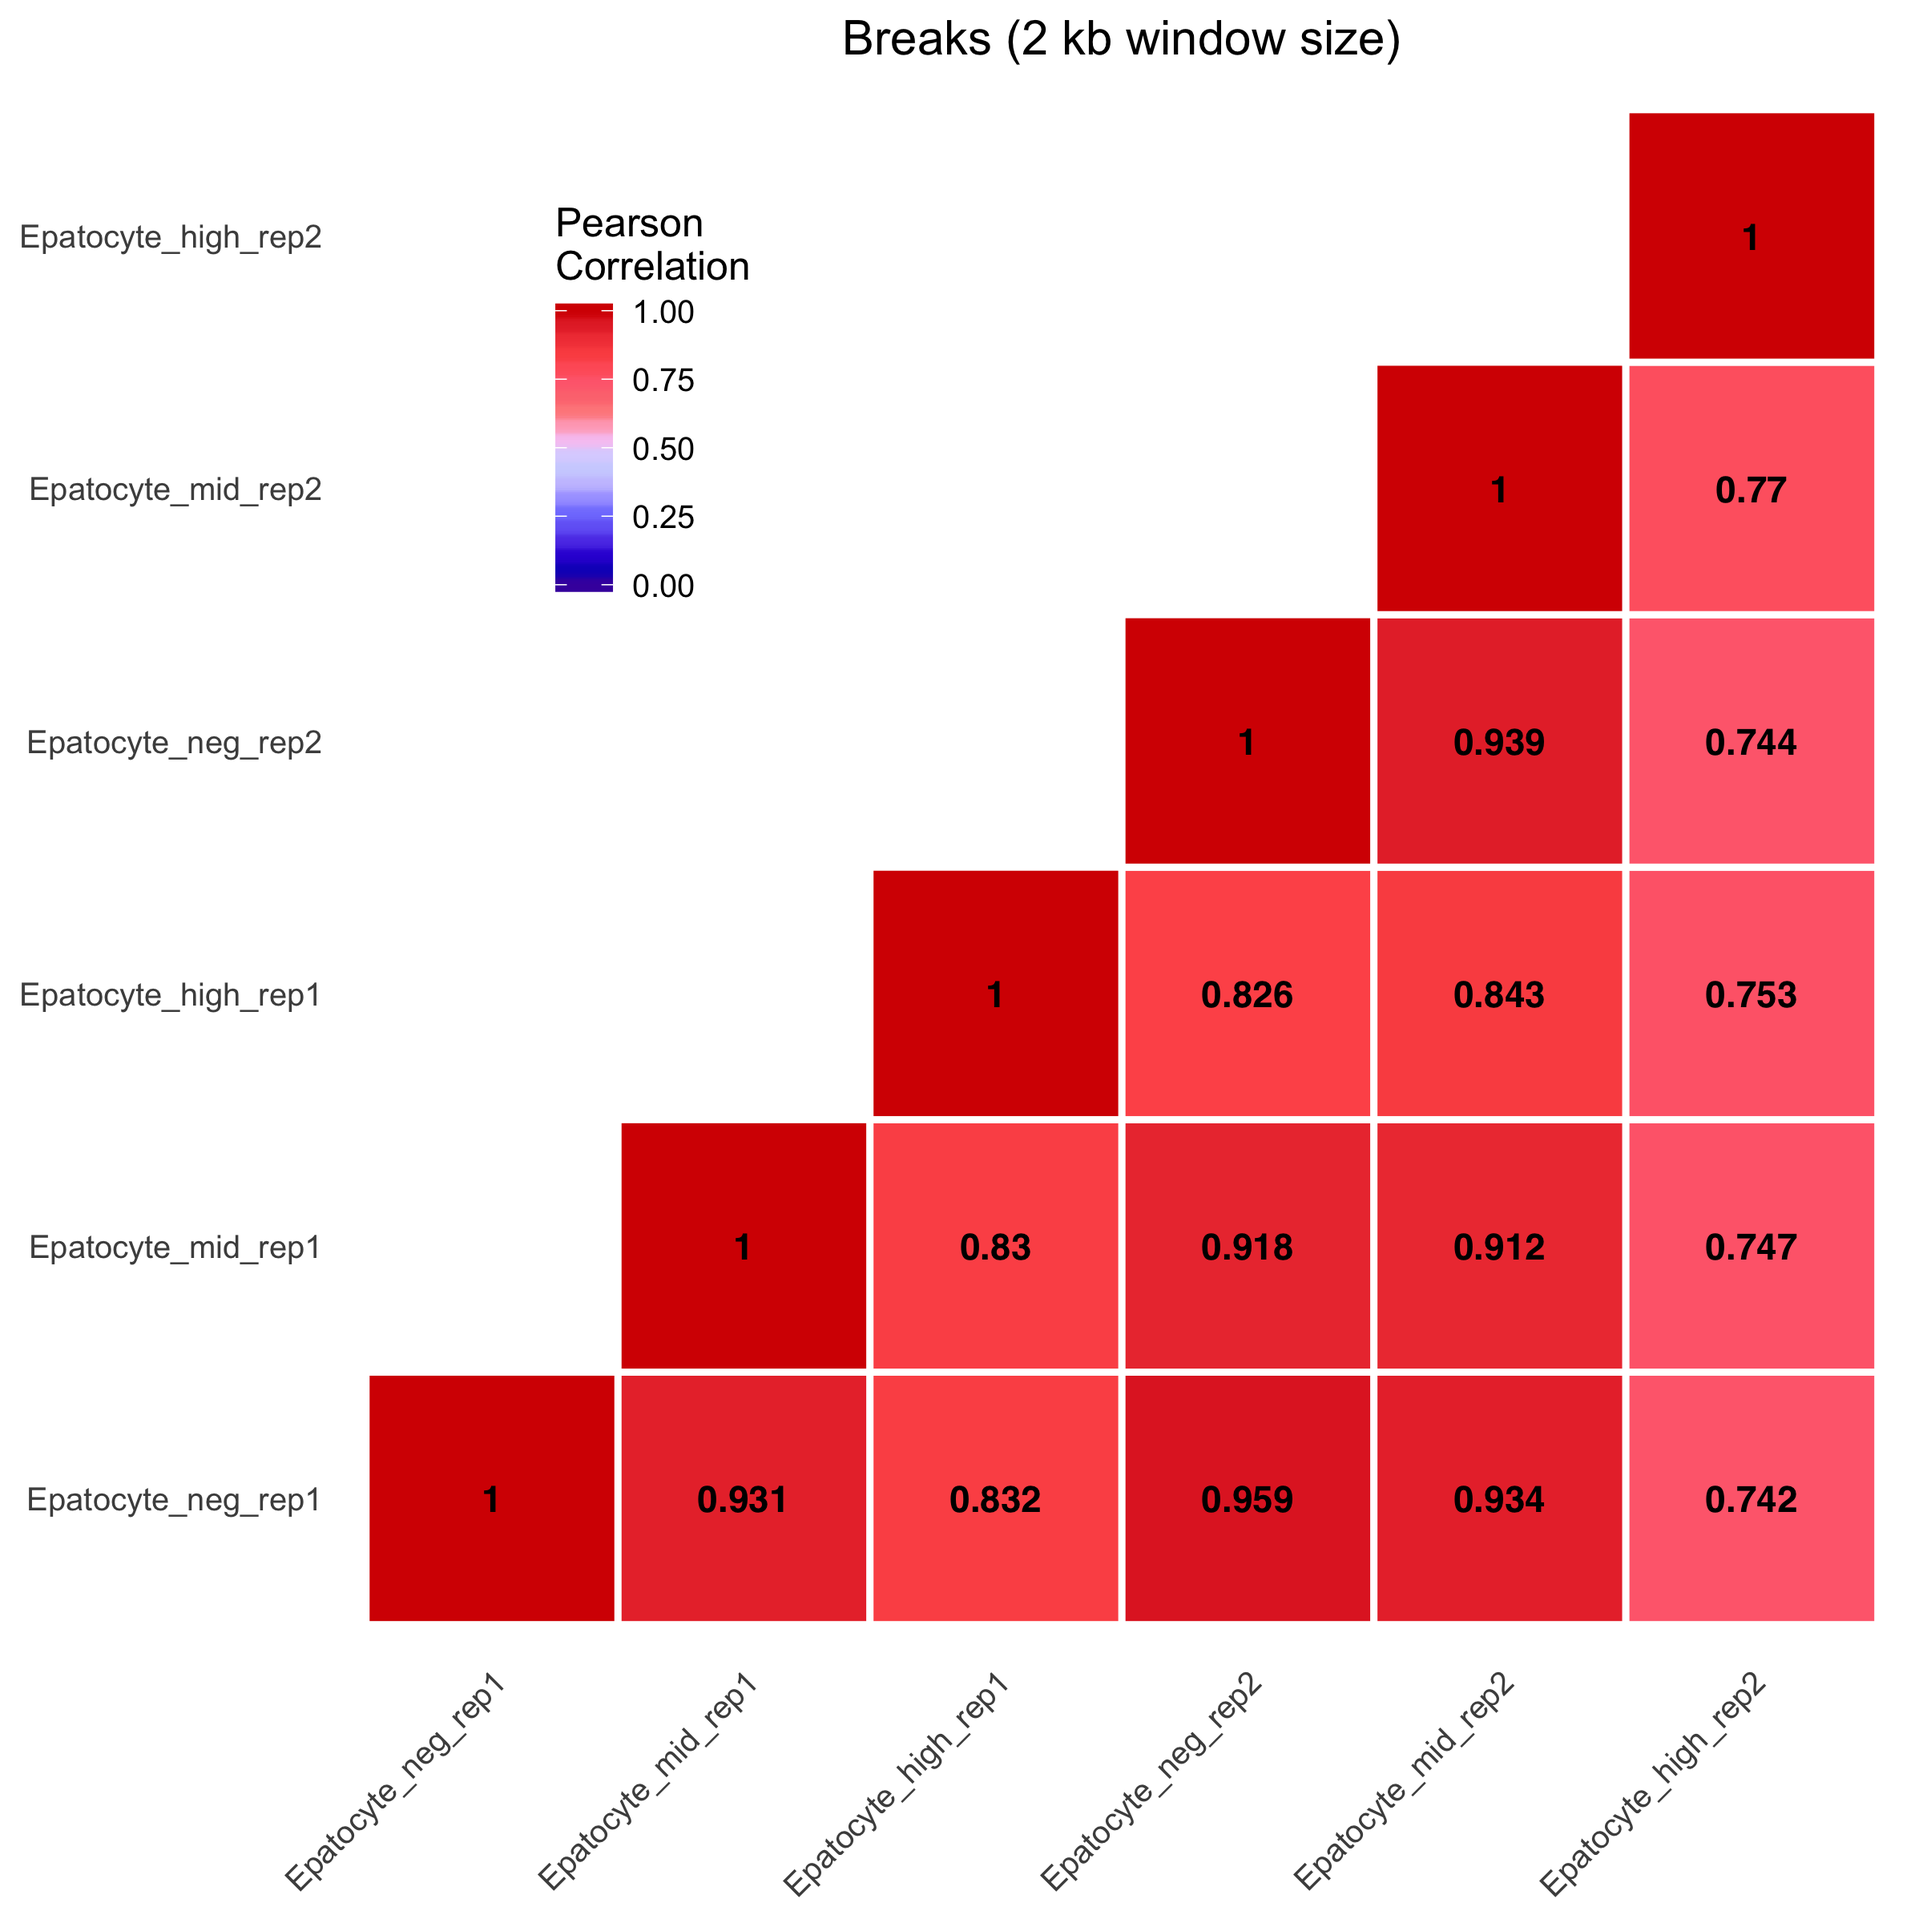
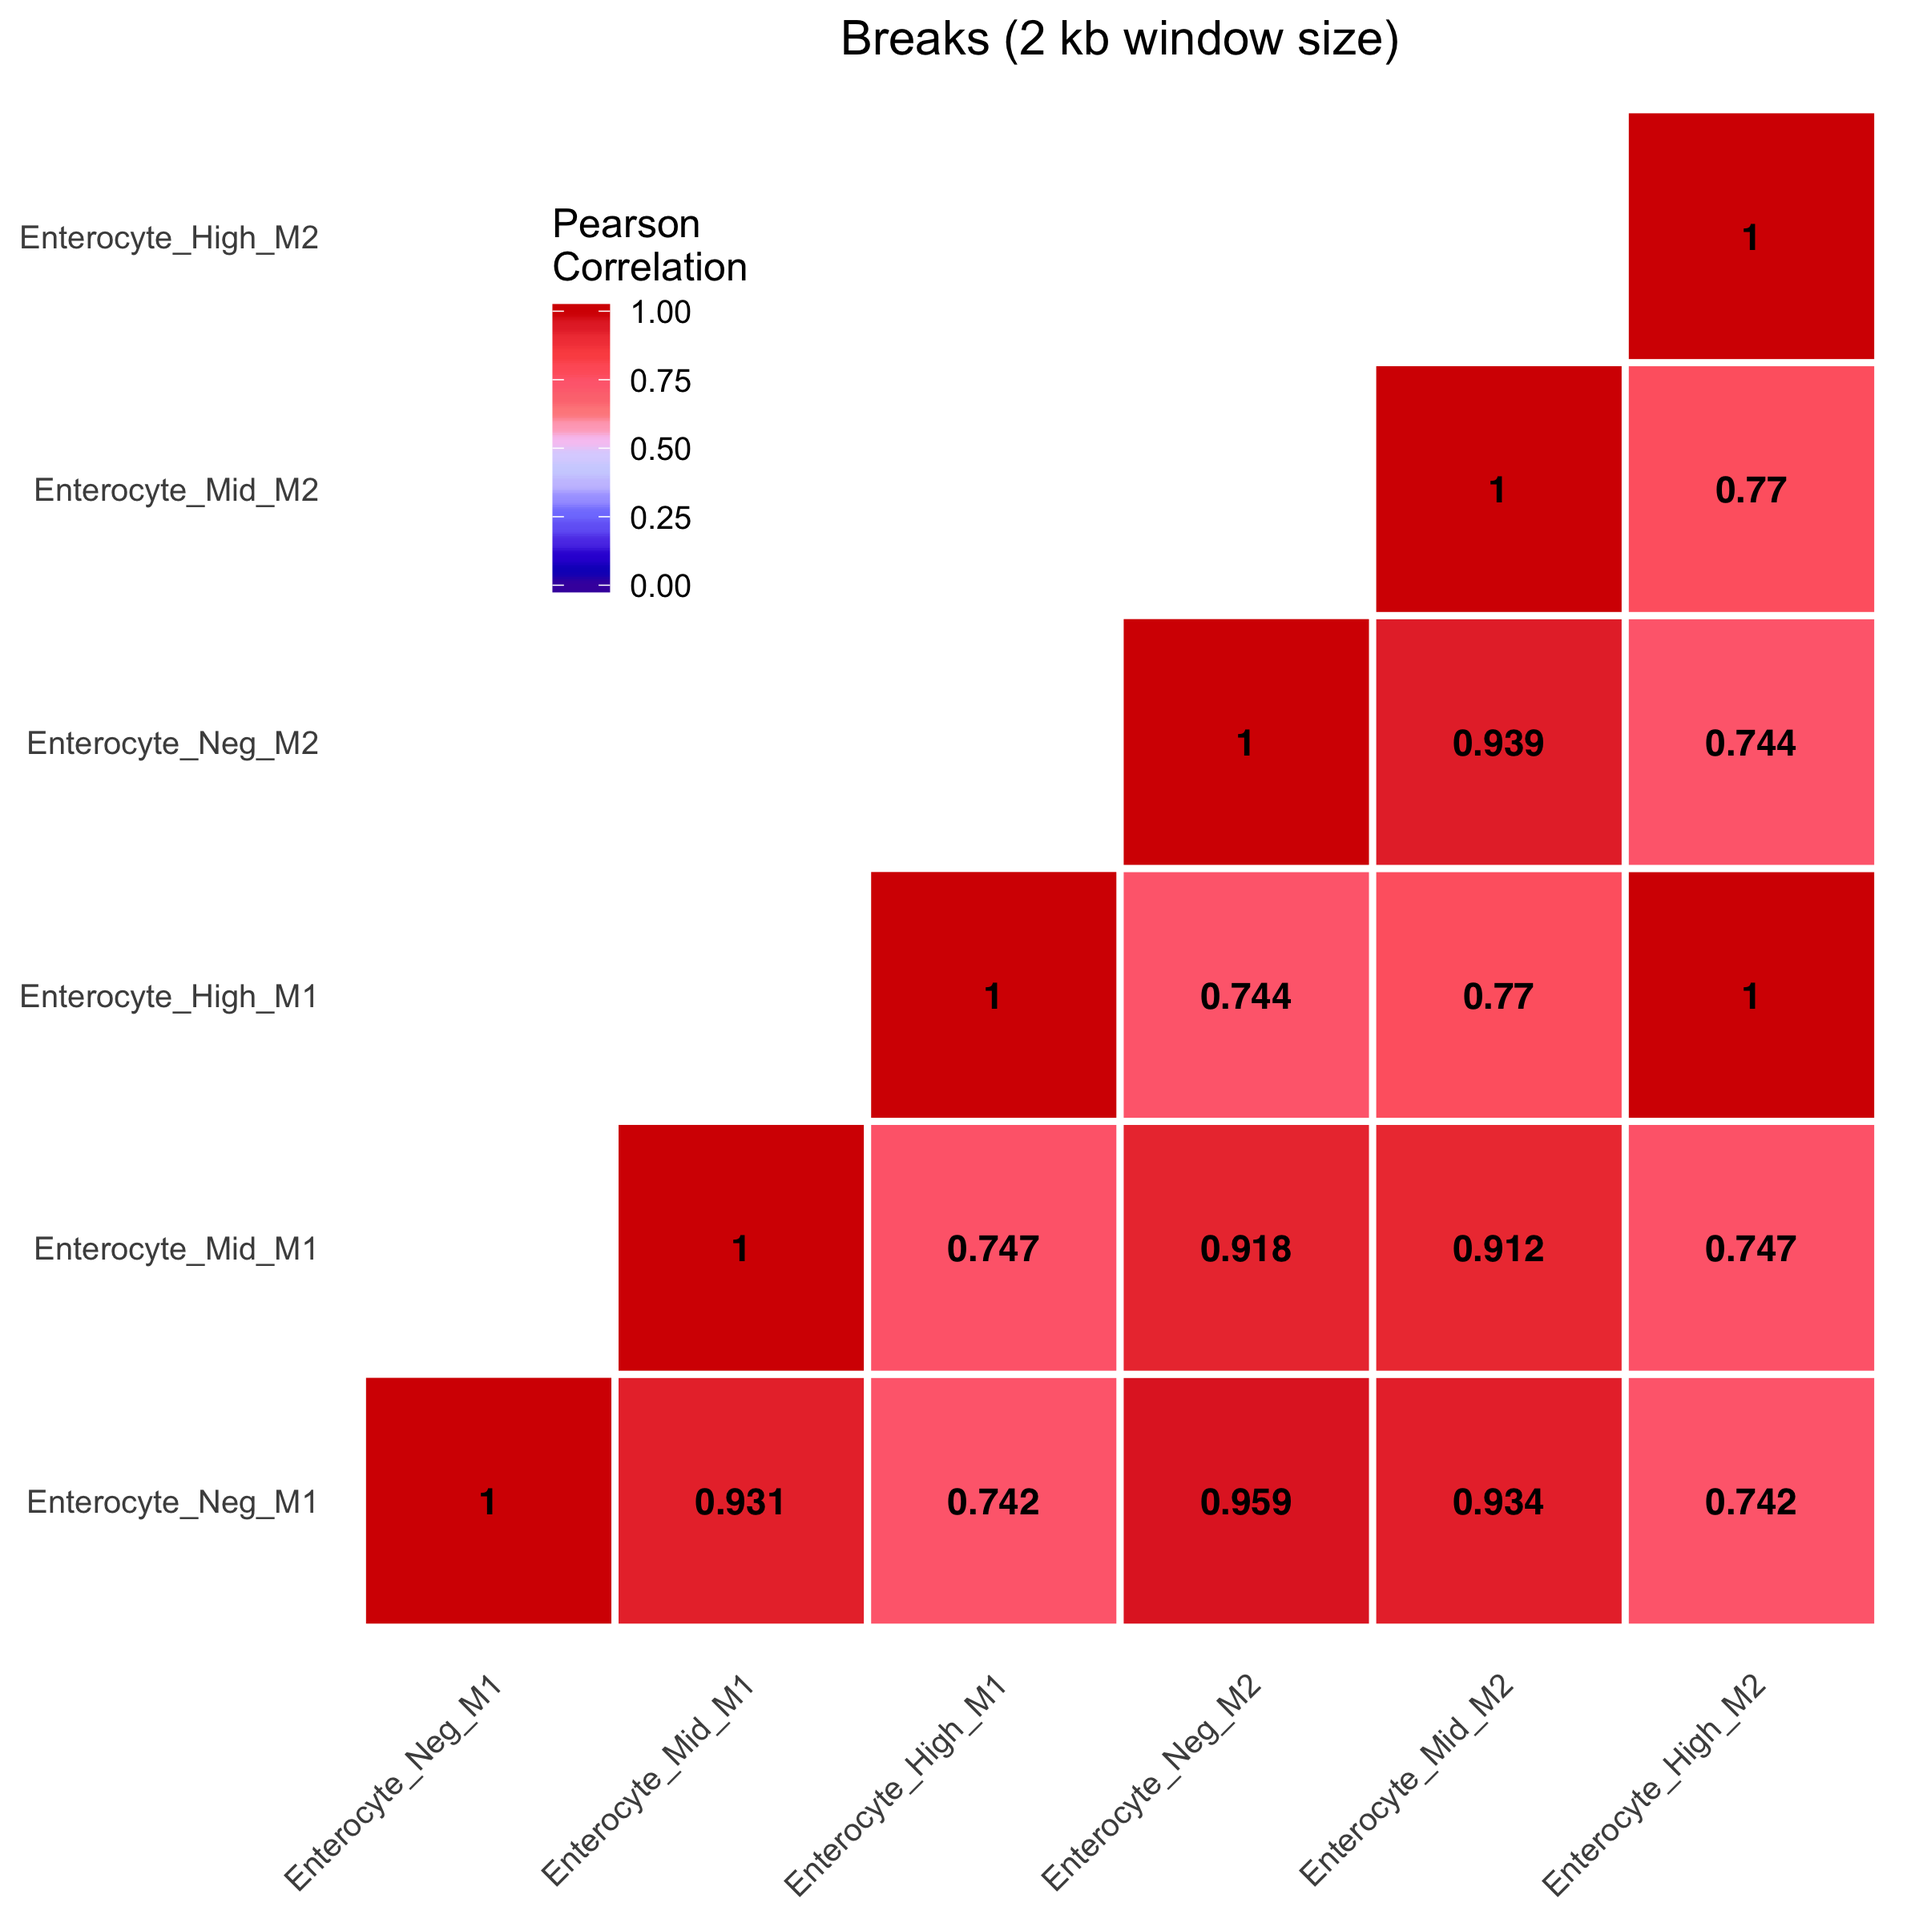
Fixed cell name

diff --git a/README_mouse.md b/README_mouse.md
@@ -53,11 +53,11 @@ Step 3: Prepare the sample table, which will be our internal reference,
 and make sure the paths and filenames are correct:
 
 ``` r
-sampleTable = data.table(name = c("Epatocyte_neg_rep1", "Epatocyte_mid_rep1", "Epatocyte_high_rep1",
-                                  "Epatocyte_neg_rep2", "Epatocyte_mid_rep2", "Epatocyte_high_rep2"),
+sampleTable = data.table(name = c("Enterocyte_Neg_M1", "Enterocyte_Mid_M1", "Enterocyte_High_M1",
+                                  "Enterocyte_Neg_M2", "Enterocyte_Mid_M2", "Enterocyte_High_M2"),
                         Batch = rep(c("1", "2"), each=3),
-                        Treatment = rep(c("neg", "mid", "high"), 2),
-                        Replicate = rep(c("1", "2"), each=3),
+                        Treatment = rep(c("Neg", "Mid", "High"), 2),
+                        Subject = rep(c("M1", "M2"), each=3),
                         path=c("./data/Enterocyte_Neg_M1.bed.gz",
                                "./data/Enterocyte_Mid_M1.bed.gz",
                                "./data/Enterocyte_High_M2.bed.gz",
@@ -102,9 +102,9 @@ pl = rbindlist(data, idcol="name")
 pl = pl[, lapply(breaks, function(x) .SD[score>=x, .N]), by="name"]
 pl = melt.data.table(pl, id.vars="name")
 pl[, variable := as.numeric(gsub("V", "", variable))]
-pl[, c("Batch", "Treatment", "Replicate") := tstrsplit(name, "_")]
+pl[, c("Batch", "Treatment", "Subject") := tstrsplit(name, "_")]
 
-fig1a = ggplot(pl, aes(x=variable, y=value, col=Treatment, shape=Replicate)) +
+fig1a = ggplot(pl, aes(x=variable, y=value, col=Treatment, shape=Subject)) +
     ggtitle("Enterocytes") +
     geom_point(size=3) + geom_line(lwd=0.75) +
     scale_x_continuous("at least # UMIs per location", breaks=breaks) +
@@ -411,7 +411,7 @@ pl_down = pl_down[, .(value = mean(value)), by=c("set", "variable", "pos")]
 
 pl = rbindlist(list(pl_up, pl, pl_down))
 pl[, `:=`(set = factor(set, levels=c("Top_5%", "Bottom_5%")),
-          variable = factor(variable, levels=sampleTable[order(-Treatment, Replicate), name]))]
+          variable = factor(variable, levels=sampleTable[order(-Treatment, Subject), name]))]
 
 fig1e = ggplot(pl, aes(x=pos-1, y=value, col=set)) +
     geom_line() +
@@ -462,7 +462,7 @@ pl[, `:=`(pos = ifelse(strand=="+", seq_along(value), rev(seq_along(value))), no
 pl = pl[, .(value = mean(value)), by=c("set", "variable", "pos")]
 
 pl[, `:=`(set = factor(set, levels=c("Top_5%", "Bottom_5%")),
-          variable = factor(variable, levels=sampleTable[order(-Treatment, Replicate), name]))]
+          variable = factor(variable, levels=sampleTable[order(-Treatment, Subject), name]))]
 
 fig1f = ggplot(pl, aes(x=pos-num_bins/2, y=value, col=set)) +
     geom_line() +
